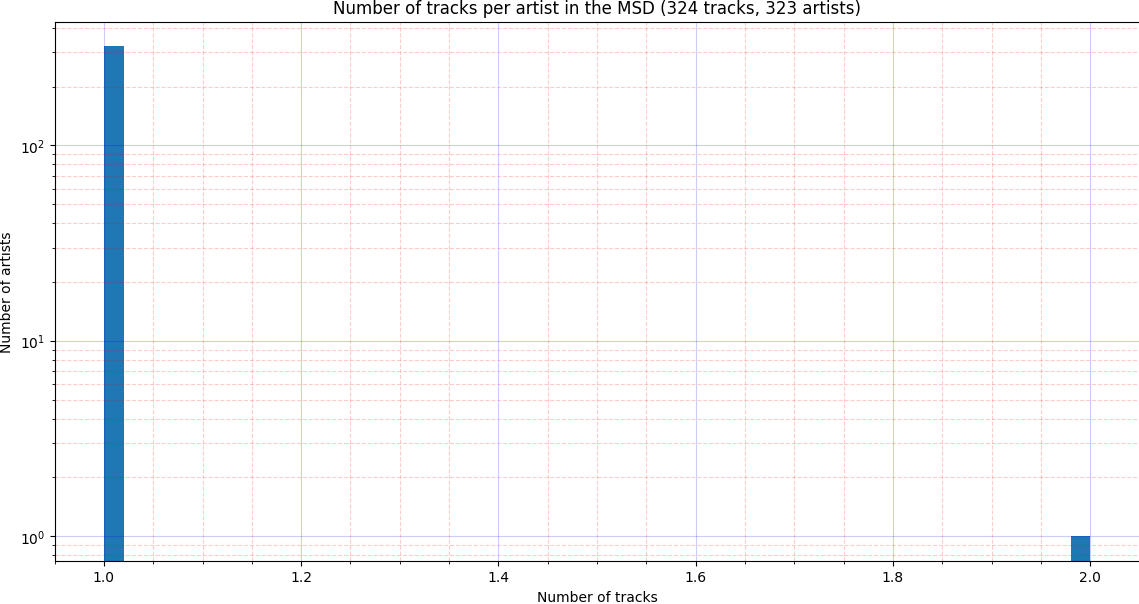
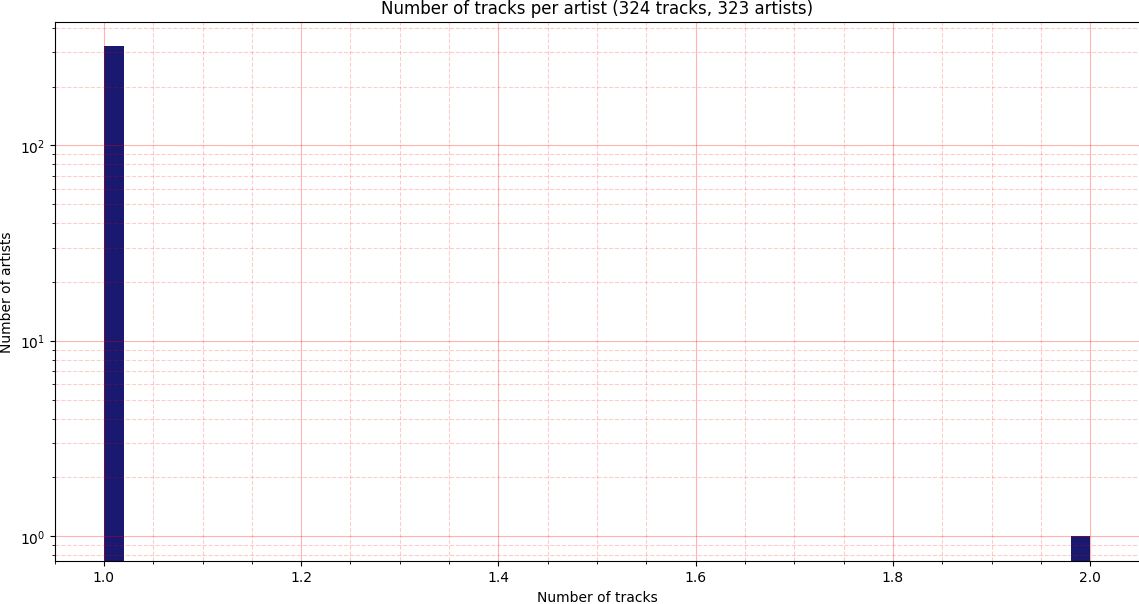
Nicer color and ylog scale

Changed region(s): [[0.0922, 0.0596, 0.1229, 0.9238], [0.2766, 0.0, 0.7682, 0.0298], [0.9219, 0.8642, 0.9833, 0.9238]]

diff --git a/generate_msd_analysis.py b/generate_msd_analysis.py
@@ -1,3 +1,4 @@
+from calendar import c
 from pathlib import Path
 
 import fire
@@ -36,13 +37,13 @@ def main(out_dir="media", img=True, overwrite=False):
         print("Plotting histogram of song counts per artists ...")
         # Plot log histogram of soung counts per artist
         plt.figure(figsize=(14,7))
-        plt.hist(counts, bins = 50)
+        plt.hist(counts, bins = 50, color='midnightblue')
         plt.yscale('log')
         plt.title(f"Number of tracks per artist ({total_song_count} tracks, {total_artist_count} artists)")
         plt.xlabel("Number of tracks")
         plt.ylabel("Number of artists")
         plt.minorticks_on()
-        plt.grid(which='major', color='b', linestyle='-', alpha=0.2)
+        plt.grid(which='major', color='r', linestyle='-', alpha=0.3)
         plt.grid(which='minor', color='r', linestyle='--', alpha=0.2)
 
         if img:
@@ -59,9 +60,9 @@ def main(out_dir="media", img=True, overwrite=False):
         for data_example in tqdm(msd_dataset):
             track_lengths.append(data_example['audio'].numpy().shape[0]/16000)
         plt.figure(figsize=(14,7))
-        plt.hist(track_lengths, bins = 50)
-
-        plt.title("Tracks' lengths in the MSD subset")
+        plt.hist(track_lengths, bins = 50, color='midnightblue')
+        plt.yscale('log')
+        plt.title("Tracks' lengths in the dataset")
         plt.xlabel("Track length (s)")
         plt.ylabel("Number of songs")
         plt.minorticks_on()
